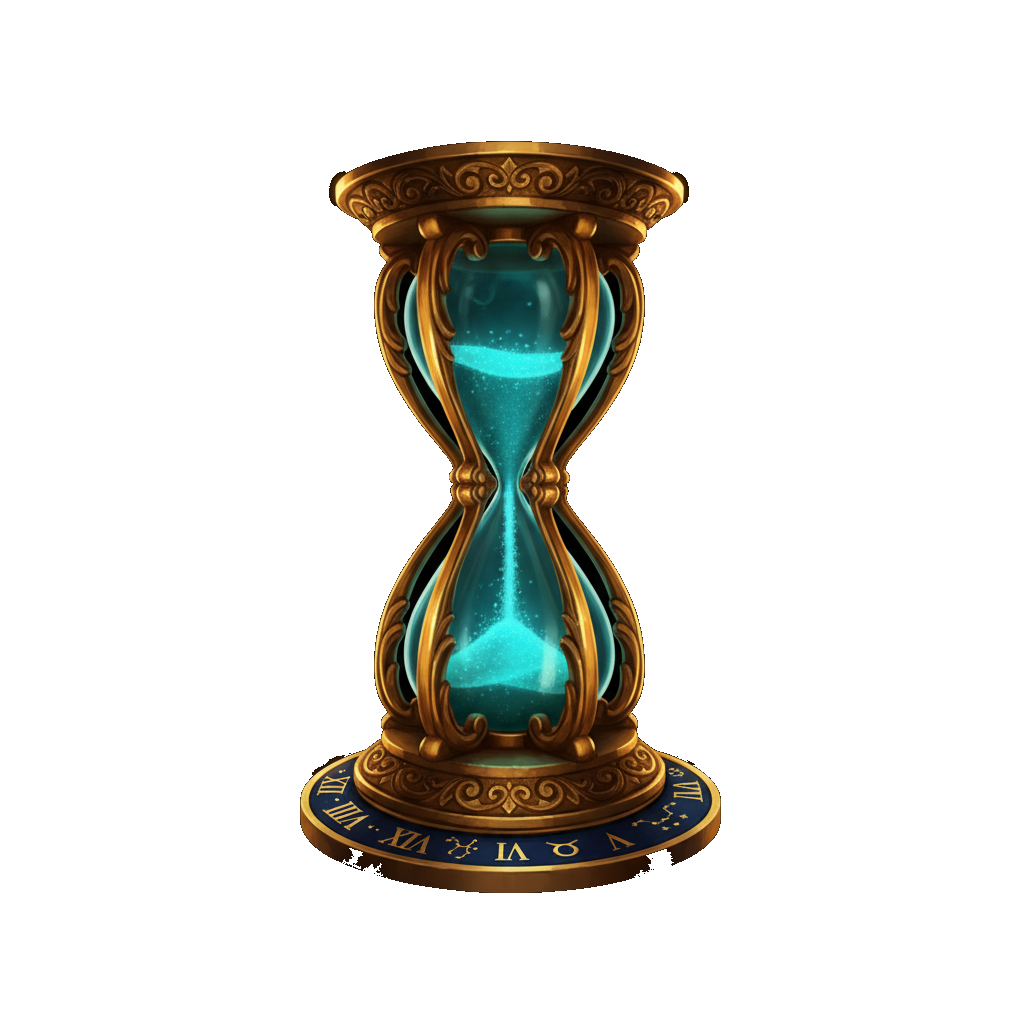
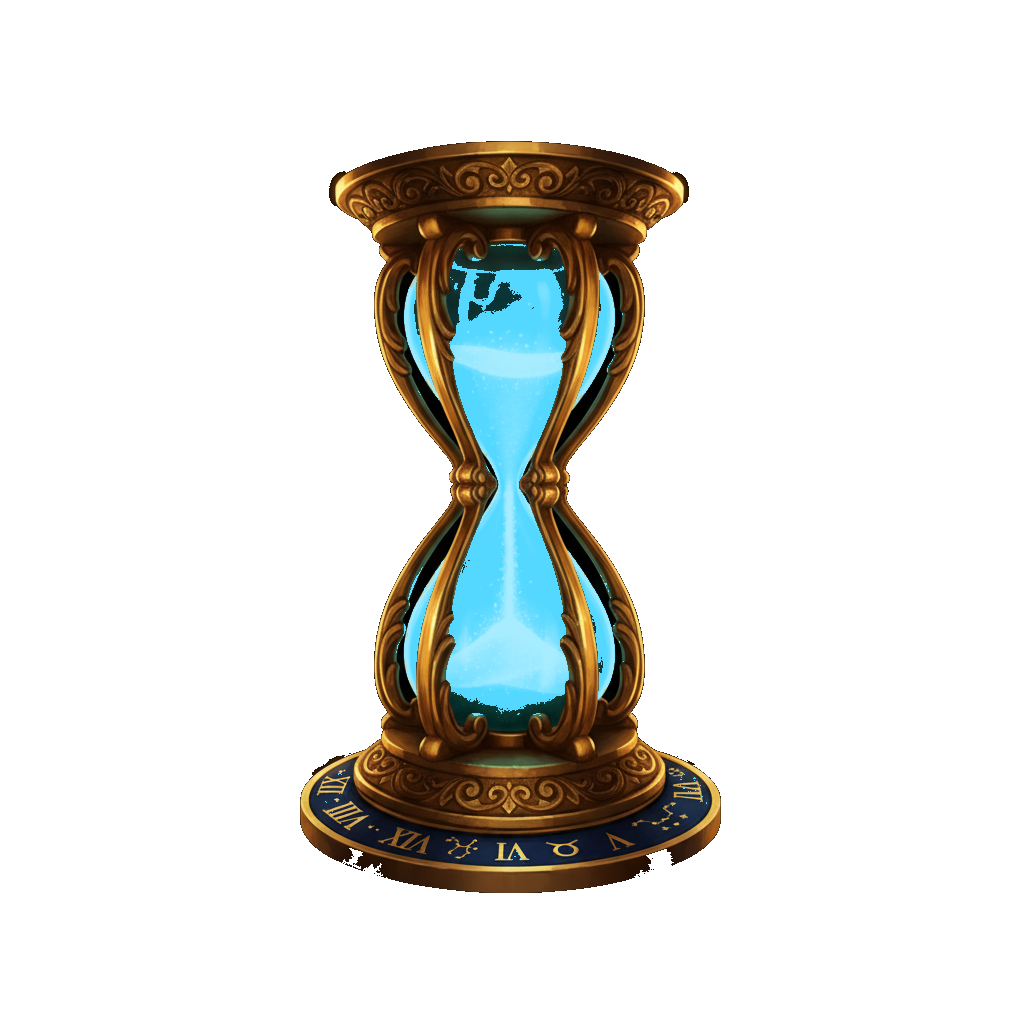
File changes

Changed region(s): [[0.375, 0.25, 0.625, 0.7188], [0.375, 0.2812, 0.4062, 0.3438]]

diff --git a/src/components/dev/BuildMarker.jsx b/src/components/dev/BuildMarker.jsx
@@ -1,5 +1,9 @@
 import React, { useEffect, useState } from 'react';
 
+// Codex531 — Home center hourglass sand recolor:
+//   • The Home center hourglass PNG asset (/assets/ui/kronox-hourglass-home.png) was replaced in place with the same ornate gold-frame / clear-glass / transparent-background artwork, changing ONLY the sand to the cyan palette (light #A7ECFF, dark #55D8FF). MainMenu still references the same local path at the same size/position, so frame, glass, glow, layout, and animation structure are unchanged.
+//   • No code, gameplay, economy, auth/guest, leaderboard, routing, BottomNav, Daily Wheel, or Daily Quest behavior changed; no other icon/asset was touched.
+//
 // Codex530 — Health blocker fixes (KRONOX-MR3JXNK3):
 //   • Base44 SDK exact pin: package.json and package-lock.json (root spec + installed node_modules/@base44/sdk block version/resolved/integrity) re-pinned from ^0.8.35 to exactly 0.8.34 with the real 0.8.34 tarball + integrity; no caret/range remains and critical Base44 Deno functions already import npm:@base44/sdk@0.8.34.
 //   • Solo P3 repeated-deck coverage: the "100 normal decks" simulation now cycles only normal levels [1,2,3,4,6,7,8,9] instead of (index % 9)+1, which had leaked special level 5 (21-card deck). 100 normal decks now select exactly 100 × 18 = 1800 cards, matching the expectation, while diversity/cooldown/first-five spacing rules are unchanged.
@@ -164,7 +168,7 @@ import React, { useEffect, useState } from 'react';
 //
 
 
-const BUILD_MARKER = 'Codex530';
+const BUILD_MARKER = 'Codex531';
 export const KRONOX_BUILD_MARKER = BUILD_MARKER;
 
 // eslint-disable-next-line no-unused-vars
